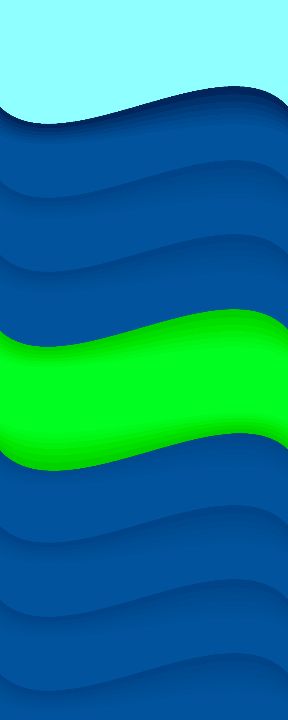
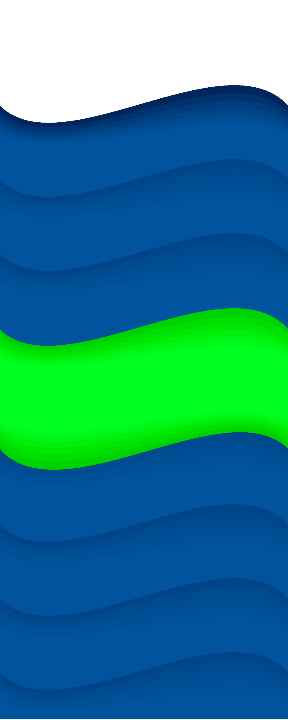
waves work

Changed region(s): [[0.0, 0.0, 1.0, 0.1833]]

diff --git a/src/Game4/Game4View.java b/src/Game4/Game4View.java
@@ -39,24 +39,21 @@ public class Game4View extends gameView{
 		createImage("g4_sand");
 		images.put("underwater2",resizeImg(images.get("underwater2"),scaleW(Window.WIDTH),scaleH(Window.HEIGHT)));
 		createImage("exit");
-		//BufferedImage img = images.get("game4_bgTile");
+		BufferedImage img = images.get("game4_bgTile");
 		int w = images.get("game4_bgTile").getWidth();
 		System.out.println(w);
-		int x = 1;
-		int y =1;
-		int pixel = images.get("game4_bgTile").getRGB(x,y);
-		if((pixel>>24) == 0x00){
-			System.out.println("X: "+x+" Y: "+y+" are bueno");
+		waterTop = new int[scaleW(288)];
+		for(int i = 0; i<scaleW(288);i++){
+			int y = 0;
+			while((img.getRGB(i,y)>>24) == 0x00){
+				y++;
+				System.out.println("y++");
+			}
+			waterTop[i] = y;
 		}
-		waterTop = new int[w];
-		//for(int i = 0; i<img.getWidth();i++){
-		//	int y = 0;
-		//	while((img.getRGB(i,y)>>24) != 0x00){
-		//		y++;
-		//	}
-		//	waterTop[i] = y;
-		//}
-		waterTop.toString();
+		for(int i = 0; i<scaleW(288);i++){
+			System.out.print(waterTop[i]/Window.SCALE+", ");
+		}
 	}
 	
 	/**
